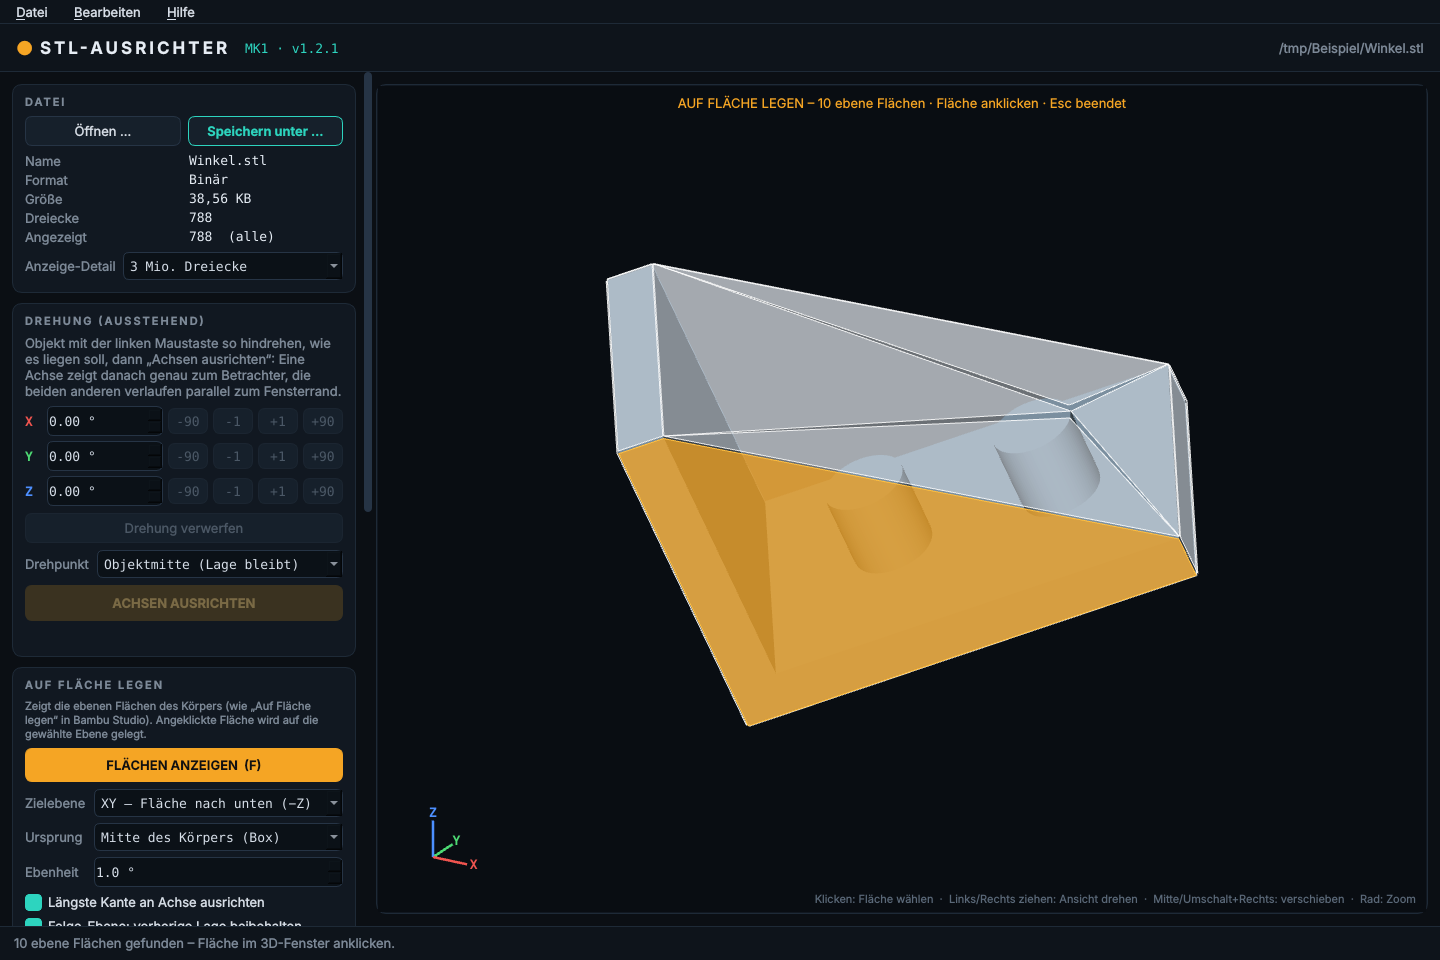
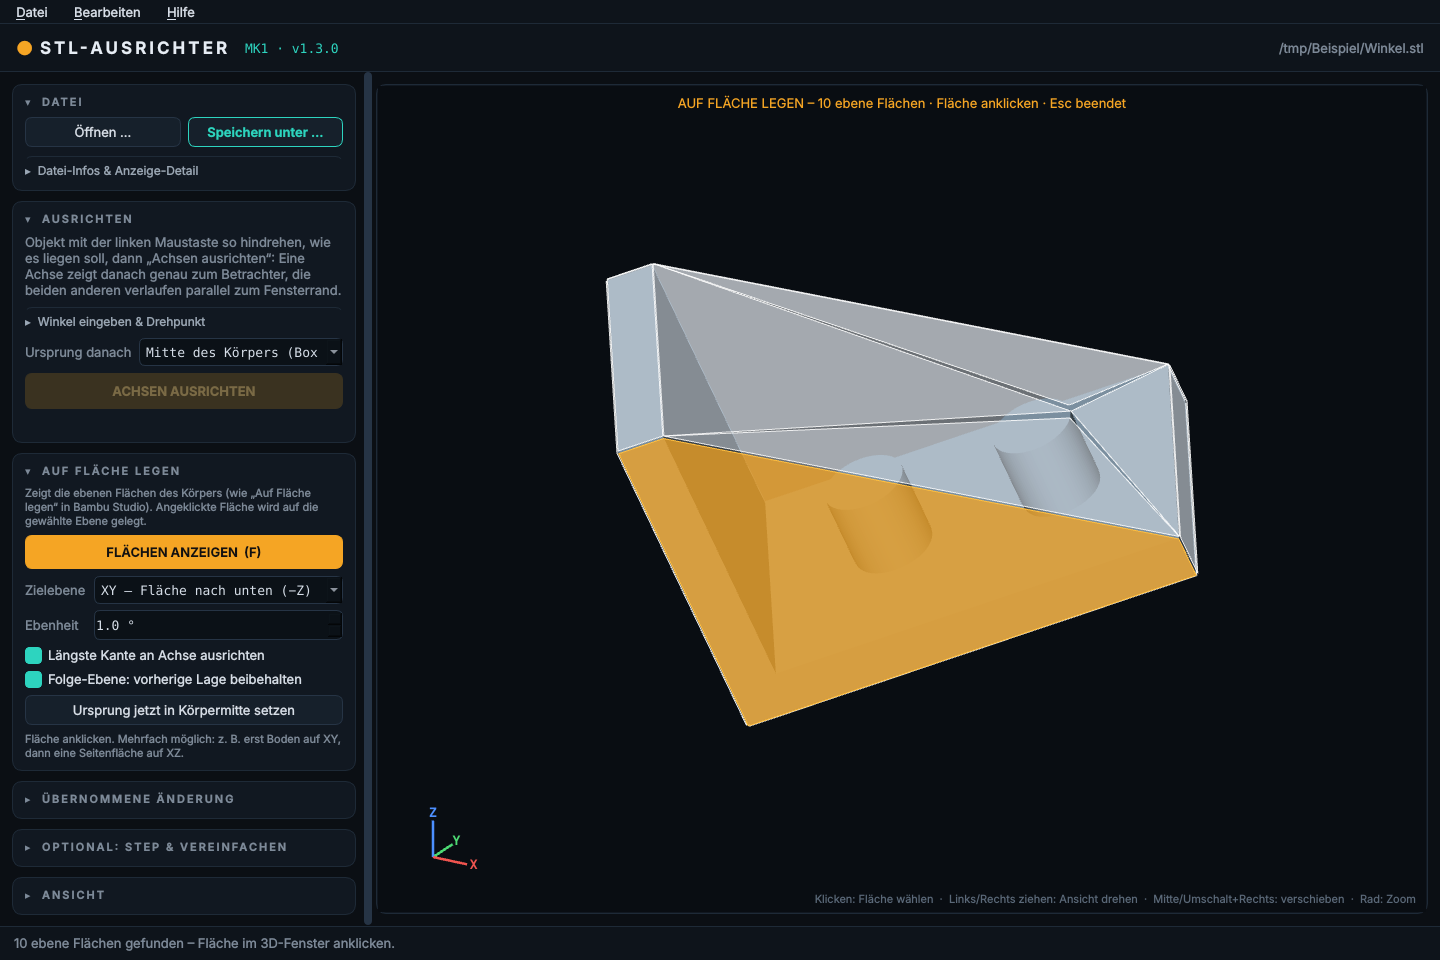
v1.3.0
STL-Ausrichter-MK1 v1.3.0 – Einklappbare Bereiche, Ursprung automatisch, networkx

- Seitenleiste mit einklappbaren Bereichen; im Normalzustand nur „Datei“
  und „Ausrichten“ geöffnet, Zustand wird in der Registrierung gemerkt
- Nach „Achsen ausrichten“ wird der Ursprung automatisch in die Körpermitte
  gesetzt (Box-Mitte, Volumenschwerpunkt oder nicht verschieben)
- Auswahl „Ursprung danach“ in den Bereich „Ausrichten“ verschoben,
  gilt auch für „Auf Fläche legen“
- Taste F klappt „Auf Fläche legen“ automatisch auf
- STEP-Umwandlung: fehlendes Paket networkx ergänzt (requirements.txt
  und PyInstaller --collect-all networkx), behebt
  „No module named 'networkx'“
- README und Screenshots aktualisiert

Changed region(s): [[0.0, 0.0938, 0.2812, 0.9688]]

diff --git a/main.py b/main.py
@@ -19,7 +19,7 @@ import tempfile
 import time
 
 import numpy as np
-from PySide6.QtCore import QThread, Qt, QTimer, Signal
+from PySide6.QtCore import QSettings, QThread, Qt, QTimer, Signal
 from PySide6.QtGui import QAction, QIcon, QKeySequence, QSurfaceFormat
 from PySide6.QtWidgets import (QApplication, QCheckBox, QComboBox, QDoubleSpinBox, QFileDialog,
                                QFrame, QGridLayout, QHBoxLayout, QLabel, QMainWindow,
@@ -45,6 +45,12 @@ QWidget#side { background: #0b0f14; }
 QScrollArea { border: none; background: #0b0f14; }
 QFrame#card { background: #111821; border: 1px solid #1e2a37; border-radius: 10px; }
 QLabel#cardTitle { color: #7d8a99; font-size: 8pt; font-weight: 600; letter-spacing: 2px; }
+QPushButton#cardHeader { background: transparent; border: none; text-align: left; padding: 2px 0;
+    color: #7d8a99; font-size: 8pt; font-weight: 600; letter-spacing: 2px; }
+QPushButton#cardHeader:hover { color: #2dd4bf; }
+QPushButton#subHeader { background: transparent; border: none; border-top: 1px solid #1e2a37;
+    text-align: left; padding: 6px 0 2px 0; color: #9aa7b5; font-size: 9pt; }
+QPushButton#subHeader:hover { color: #2dd4bf; }
 QLabel#muted { color: #7d8a99; }
 QLabel#value { font-family: Consolas, 'Cascadia Mono', monospace; color: #e6edf5; }
 QLabel#warn { color: #f5a524; font-weight: 600; }
@@ -206,16 +212,59 @@ def _kill_tree(p):
 
 
 # ------------------------------------------------------------------ UI-Helfer
-def card(title):
-    f = QFrame()
-    f.setObjectName("card")
-    lay = QVBoxLayout(f)
-    lay.setContentsMargins(12, 10, 12, 12)
-    lay.setSpacing(7)
-    t = QLabel(title.upper())
-    t.setObjectName("cardTitle")
-    lay.addWidget(t)
-    return f, lay
+class Collapsible(QFrame):
+    """Ein-/ausklappbarer Bereich. Der Zustand wird gemerkt (Windows-Registrierung,
+    keine Dateien neben der exe)."""
+
+    def __init__(self, title, key, expanded=False, is_card=True):
+        super().__init__()
+        self.setObjectName("card" if is_card else "sub")
+        t = title.upper() if is_card else title
+        self._title = t.replace("&", "&&")   # & sonst als Tastenkürzel gedeutet
+        self._key = "ui/" + key
+        outer = QVBoxLayout(self)
+        if is_card:
+            outer.setContentsMargins(12, 8, 12, 10)
+        else:
+            outer.setContentsMargins(0, 2, 0, 0)
+        outer.setSpacing(6)
+        self.header = QPushButton()
+        self.header.setObjectName("cardHeader" if is_card else "subHeader")
+        self.header.setCheckable(True)
+        self.header.setCursor(Qt.PointingHandCursor)
+        self.header.setFocusPolicy(Qt.NoFocus)
+        self.body = QWidget()
+        self.body_layout = QVBoxLayout(self.body)
+        self.body_layout.setContentsMargins(0, 0, 0, 0)
+        self.body_layout.setSpacing(7)
+        outer.addWidget(self.header)
+        outer.addWidget(self.body)
+        state = QSettings(APP_NAME, APP_NAME).value(self._key, expanded, type=bool)
+        self.header.setChecked(state)
+        self._apply(state)
+        self.header.toggled.connect(self._toggled)
+
+    def _apply(self, on):
+        self.body.setVisible(on)
+        self.header.setText(("▾  " if on else "▸  ") + self._title)
+
+    def _toggled(self, on):
+        self._apply(on)
+        QSettings(APP_NAME, APP_NAME).setValue(self._key, on)
+
+    def expand(self):
+        self.header.setChecked(True)
+
+
+def card(title, key, expanded=False):
+    f = Collapsible(title, key, expanded, True)
+    return f, f.body_layout
+
+
+def section(parent_layout, title, key, expanded=False):
+    f = Collapsible(title, key, expanded, False)
+    parent_layout.addWidget(f)
+    return f.body_layout
 
 
 def kv(grid, row, key, obj_name="value"):
@@ -301,7 +350,7 @@ class MainWindow(QMainWindow):
         body.addLayout(vwrap_outer, 1)
 
         # Karte: Datei ------------------------------------------------------
-        c, l = card("Datei")
+        c, l = card("Datei", "karte_datei", True)
         row = QHBoxLayout()
         self.btn_open = QPushButton("Öffnen …")
         self.btn_save = QPushButton("Speichern unter …")
@@ -309,6 +358,7 @@ class MainWindow(QMainWindow):
         row.addWidget(self.btn_open)
         row.addWidget(self.btn_save)
         l.addLayout(row)
+        l = section(l, "Datei-Infos & Anzeige-Detail", "sek_datei")
         g = QGridLayout()
         g.setHorizontalSpacing(10)
         g.setVerticalSpacing(3)
@@ -334,13 +384,16 @@ class MainWindow(QMainWindow):
         side.addWidget(c)
 
         # Karte: Drehung --------------------------------------------------
-        c, l = card("Drehung (ausstehend)")
+        c, l = card("Ausrichten", "karte_drehung", True)
+        self.card_rot = c
         hint = QLabel("Objekt mit der linken Maustaste so hindrehen, wie es liegen soll, dann "
                       "„Achsen ausrichten“: Eine Achse zeigt danach genau zum Betrachter, die "
                       "beiden anderen verlaufen parallel zum Fensterrand.")
         hint.setObjectName("muted")
         hint.setWordWrap(True)
         l.addWidget(hint)
+        l_main = l
+        l = section(l_main, "Winkel eingeben & Drehpunkt", "sek_winkel")
         g = QGridLayout()
         g.setHorizontalSpacing(5)
         g.setVerticalSpacing(5)
@@ -381,6 +434,20 @@ class MainWindow(QMainWindow):
         piv.addWidget(lab)
         piv.addWidget(self.cmb_pivot, 1)
         l.addLayout(piv)
+        l = l_main
+        orow = QHBoxLayout()
+        lab = QLabel("Ursprung danach")
+        lab.setObjectName("muted")
+        self.cmb_origin = QComboBox()
+        self.cmb_origin.addItem("Mitte des Körpers (Box)", "box")
+        self.cmb_origin.addItem("Volumenschwerpunkt", "centroid")
+        self.cmb_origin.addItem("nicht verschieben", "none")
+        self.cmb_origin.setToolTip("Wohin der Ursprung 0/0/0 nach „Achsen ausrichten“ und\n"
+                                   "„Auf Fläche legen“ automatisch gesetzt wird.\n"
+                                   "Wird exakt über ALLE Dreiecke der Datei berechnet.")
+        orow.addWidget(lab)
+        orow.addWidget(self.cmb_origin, 1)
+        l.addLayout(orow)
         self.btn_bake = QPushButton("ACHSEN AUSRICHTEN")
         self.btn_bake.setObjectName("primary")
         self.btn_bake.setToolTip("Richtet die Achsen an der aktuellen Ansicht aus: Das Objekt bleibt so\n"
@@ -394,7 +461,8 @@ class MainWindow(QMainWindow):
         side.addWidget(c)
 
         # Karte: Auf Fläche legen -------------------------------------------
-        c, l = card("Auf Fläche legen")
+        c, l = card("Auf Fläche legen", "karte_flaeche")
+        self.card_lay = c
         hint = QLabel("Zeigt die ebenen Flächen des Körpers (wie „Auf Fläche legen“ in "
                       "Bambu Studio). Angeklickte Fläche wird auf die gewählte Ebene gelegt.")
         hint.setObjectName("hint")
@@ -414,16 +482,6 @@ class MainWindow(QMainWindow):
             self.cmb_target.addItem(txt, d)
         g.addWidget(lab, 0, 0)
         g.addWidget(self.cmb_target, 0, 1)
-        lab = QLabel("Ursprung")
-        lab.setObjectName("muted")
-        self.cmb_origin = QComboBox()
-        self.cmb_origin.addItem("Mitte des Körpers (Box)", "box")
-        self.cmb_origin.addItem("Volumenschwerpunkt", "centroid")
-        self.cmb_origin.addItem("nicht verschieben", "none")
-        self.cmb_origin.setToolTip("Wohin der Ursprung 0/0/0 nach dem Legen gesetzt wird.\n"
-                                   "Wird exakt über ALLE Dreiecke der Datei berechnet.")
-        g.addWidget(lab, 1, 0)
-        g.addWidget(self.cmb_origin, 1, 1)
         lab = QLabel("Ebenheit")
         lab.setObjectName("muted")
         self.spn_flat = QDoubleSpinBox()
@@ -434,8 +492,8 @@ class MainWindow(QMainWindow):
         self.spn_flat.setSuffix(" °")
         self.spn_flat.setToolTip("Wie stark Teilflächen voneinander abweichen dürfen, um noch als\n"
                                  "eine ebene Fläche zu gelten (größer = toleranter, z. B. für Scans).")
-        g.addWidget(lab, 2, 0)
-        g.addWidget(self.spn_flat, 2, 1)
+        g.addWidget(lab, 1, 0)
+        g.addWidget(self.spn_flat, 1, 1)
         l.addLayout(g)
         self.chk_edge = QCheckBox("Längste Kante an Achse ausrichten")
         self.chk_edge.setChecked(True)
@@ -458,7 +516,7 @@ class MainWindow(QMainWindow):
         self.lay_lock = []
 
         # Karte: Gesamtänderung ------------------------------------------
-        c, l = card("Übernommene Änderung")
+        c, l = card("Übernommene Änderung", "karte_aenderung")
         g = QGridLayout()
         g.setHorizontalSpacing(10)
         g.setVerticalSpacing(3)
@@ -472,7 +530,7 @@ class MainWindow(QMainWindow):
         side.addWidget(c)
 
         # Karte: STEP / Vereinfachen (optional) --------------------------
-        c, l = card("Optional: STEP & Vereinfachen")
+        c, l = card("Optional: STEP & Vereinfachen", "karte_step")
         hint = QLabel("Die Ausrichtung („Speichern unter …“) bleibt immer verlustfrei. "
                       "Diese Funktionen erzeugen zusätzlich eine STEP-Datei bzw. eine "
                       "vereinfachte STL – jeweils in der aktuellen Ausrichtung.")
@@ -519,7 +577,7 @@ class MainWindow(QMainWindow):
         side.addWidget(c)
 
         # Karte: Ansicht --------------------------------------------------
-        c, l = card("Ansicht")
+        c, l = card("Ansicht", "karte_ansicht")
         g = QGridLayout()
         g.setSpacing(5)
         views = [("Iso", "iso"), ("Vorne", "vorne"), ("Oben", "oben"), ("Rechts", "rechts"),
@@ -576,7 +634,7 @@ class MainWindow(QMainWindow):
         m.addAction(QAction("Drehung verwerfen / Flächenmodus beenden", self, shortcut=QKeySequence("Esc"),
                             triggered=self.on_escape))
         m.addAction(QAction("Auf Fläche legen", self, shortcut=QKeySequence("F"),
-                            triggered=lambda: self.btn_lay.isEnabled() and self.btn_lay.click()))
+                            triggered=lambda: self.btn_lay.isEnabled() and (self.card_lay.expand(), self.btn_lay.click())))
         m.addAction(QAction("Ursprung in Körpermitte setzen", self, triggered=self.center_origin))
         m = self.menuBar().addMenu("&Hilfe")
         m.addAction(QAction("Über …", self, triggered=self.about))
@@ -754,8 +812,14 @@ class MainWindow(QMainWindow):
         self._unlock()
         rr, uu, bb = self.view.align_to_view()
         self.update_dims()
-        self.lbl_status.setText(f"Achsen an der Ansicht ausgerichtet: {bb} zeigt zum Betrachter, "
-                                f"{rr} nach rechts, {uu} nach oben. Mit „Speichern unter …“ sichern.")
+        self._align_msg = (f"Achsen an der Ansicht ausgerichtet: {bb} zeigt zum Betrachter, "
+                           f"{rr} nach rechts, {uu} nach oben.")
+        self.lbl_status.setText(self._align_msg + " Mit „Speichern unter …“ sichern.")
+        # Koordinaten automatisch umsetzen: Ursprung in die Körpermitte
+        if self.cmb_origin.currentData() != "none":
+            self.center_origin()
+        else:
+            self._align_msg = ""
 
     def reset_all(self):
         self.btn_lay.setChecked(False)
@@ -846,6 +910,7 @@ class MainWindow(QMainWindow):
             "  Nächste Fläche auf eine andere Ebene legen, um auch die übrigen Achsen festzulegen."
             if len(new_lock) == 1 else "  Alle drei Achsen sind festgelegt."))
         if self.cmb_origin.currentData() != "none":
+            self._align_msg = ""
             self.center_origin()
         else:
             self.lbl_status.setText("Fläche gelegt.")
@@ -890,8 +955,11 @@ class MainWindow(QMainWindow):
         self.on_rotation_changed()
         ext = b["max"] - b["min"]
         self.v_dims.setText(" × ".join(fmt_num(x, 2) for x in ext))
-        self.lbl_status.setText(f"Ursprung gesetzt ({note}). Exakte Maße: "
-                                + " × ".join(fmt_num(x, 3) for x in ext))
+        msg = (f"Ursprung gesetzt ({note}). Exakte Maße: " + " × ".join(fmt_num(x, 3) for x in ext))
+        if getattr(self, "_align_msg", ""):
+            msg = self._align_msg + " " + msg
+            self._align_msg = ""
+        self.lbl_status.setText(msg)
 
     def on_center_failed(self, msg):
         self._finish_worker()

diff --git a/version.py b/version.py
@@ -1,2 +1,2 @@
 APP_NAME = "STL-Ausrichter-MK1"
-VERSION = "1.2.1"
+VERSION = "1.3.0"

diff --git a/README.md b/README.md
@@ -1,4 +1,4 @@
-# STL-Ausrichter-MK1 · v1.2.1
+# STL-Ausrichter-MK1 · v1.3.0
 
 STL-Dateien öffnen, frei im Raum drehen, die X/Y/Z-Achsen und -Ebenen gerade zur
 angezeigten Lage ausrichten und die Datei **strukturgleich** wieder speichern –
@@ -39,6 +39,14 @@ zeigt danach **exakt zum Betrachter** (sie erscheint als Punkt); die beiden ande
 **exakt waagerecht bzw. senkrecht** zum Fensterrand. Die Ansicht springt dazu auf die passende
 Standardansicht (z. B. von vorne), ohne dass sich das Bild ändert.
 Zum Feinjustieren vorher: Strg + linke Maustaste dreht das Objekt um die Blickachse.
+
+Direkt danach werden die **Koordinaten automatisch umgesetzt**: Der Ursprung 0/0/0 wandert in die
+Mitte des Körpers (Einstellung „Ursprung danach“: Mitte der Begrenzungsbox, Volumenschwerpunkt
+oder nicht verschieben). Dasselbe gilt für „Auf Fläche legen“.
+
+**Oberfläche:** Die meisten Bereiche sind im Normalzustand eingeklappt (▸) und lassen sich per
+Klick auf die Überschrift öffnen (▾). Offen sind nur „Datei“ und „Ausrichten“. Welche Bereiche
+offen sind, merkt sich das Programm (in der Windows-Registrierung, keine Dateien neben der exe).
 
 **Drehpunkt**
 * *Objektmitte (Lage bleibt)* – das Objekt dreht um seine Mitte, seine Position im Raum bleibt erhalten.
@@ -131,6 +139,8 @@ python main.py [datei.stl]
 
 ## Versionen
 
+* **1.3.0** – Bereiche einklappbar (meist eingeklappt); Ursprung wird nach „Achsen ausrichten“
+  automatisch in die Körpermitte gesetzt; STEP-Fehler „No module named 'networkx'“ behoben.
 * **1.2.1** – „Achsen ausrichten“ richtet die Achsen jetzt an der Ansicht aus (eine Achse exakt
   zum Betrachter, die anderen parallel zum Fensterrand); Kamera mit Drehung um die Blickachse.
 * **1.2.0** – „Auf Fläche legen“ (wie Bambu Studio) für XY/XZ/YZ mit Folge-Ebene,
